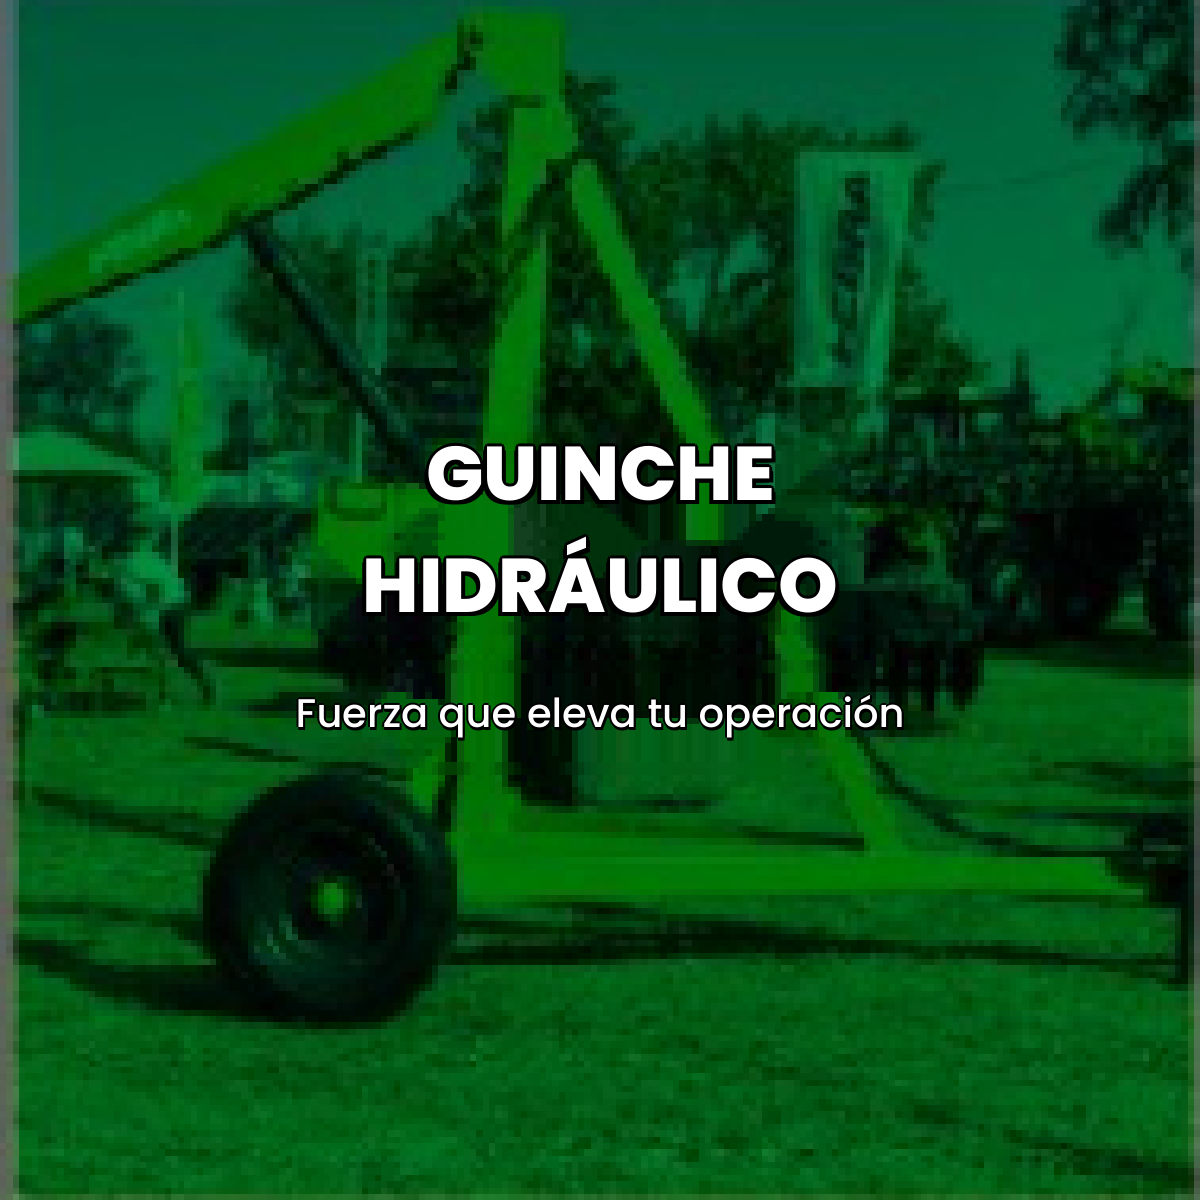
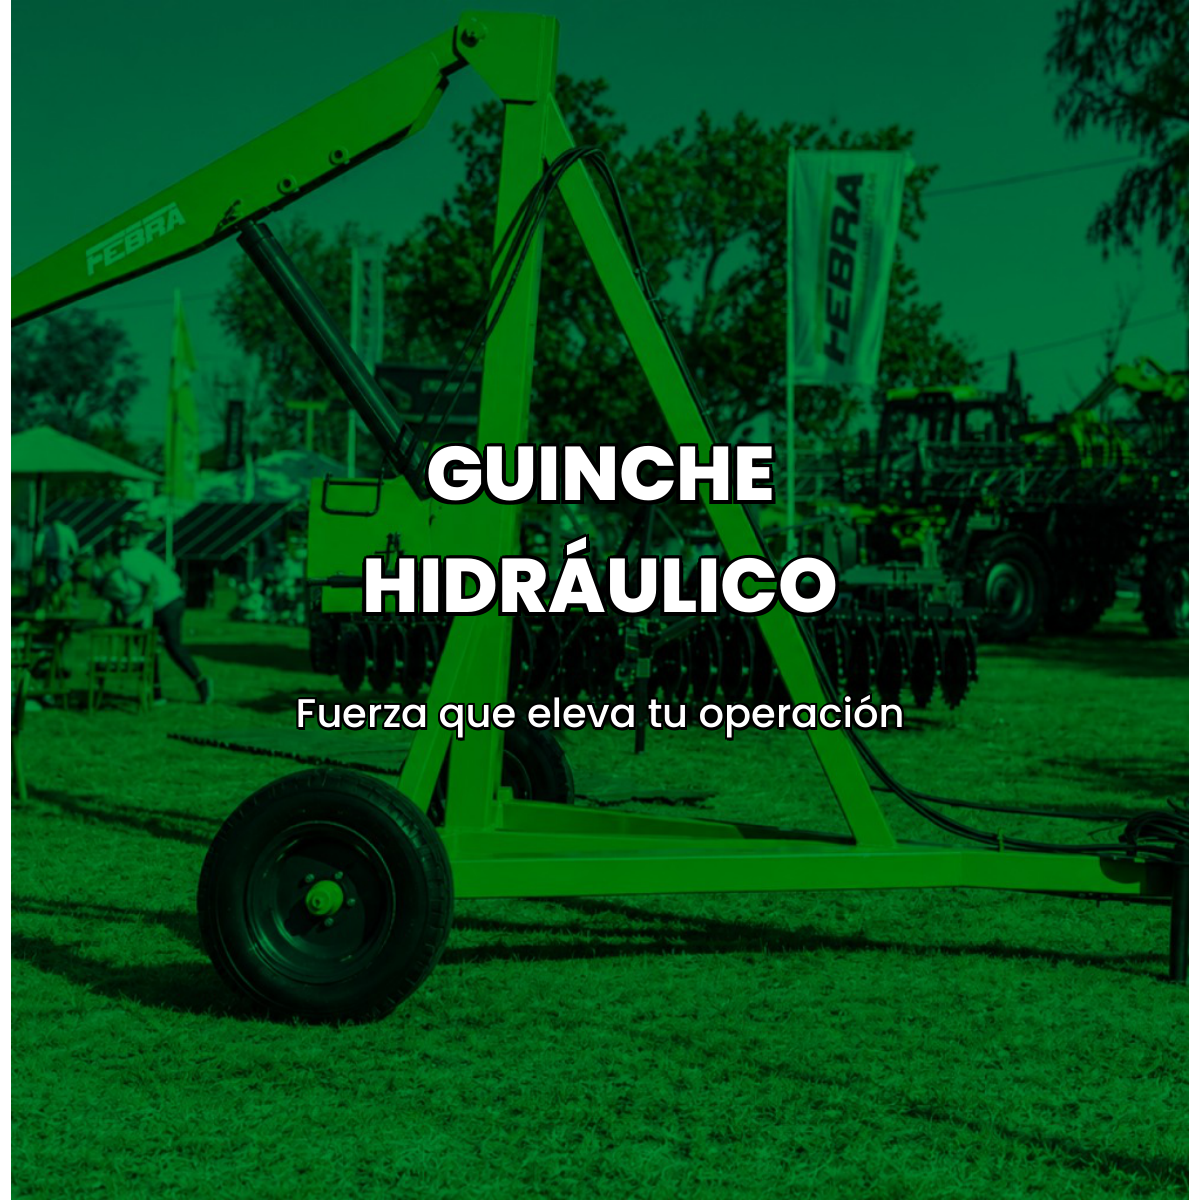
Actualizar fotos de implementos en alta definicion manteniendo textos

diff --git a/index.html b/index.html
@@ -1146,27 +1146,27 @@
         <div class="cards-grid" id="cardsGrid">
           <!-- Tarjeta 1: Rastra Acondicionadora -->
           <div class="product-card" onclick="openProductModal('Rastra Acondicionadora')">
-            <img src="assets/card_rastra_full.png?v=3" alt="RASTRA ACONDICIONADORA - Nivelación y terminación con precisión" class="card-bg" />
+            <img src="assets/card_rastra_full.png?v=4" alt="RASTRA ACONDICIONADORA - Nivelación y terminación con precisión" class="card-bg" />
           </div>
 
           <!-- Tarjeta 2: Subsolador Descompactador -->
           <div class="product-card" onclick="openProductModal('Subsolador Descompactador')">
-            <img src="assets/card_subsolador_full.png?v=3" alt="SUBSOLADOR DESCOMPACTADOR - Profundidad que transforma el suelo" class="card-bg" />
+            <img src="assets/card_subsolador_full.png?v=4" alt="SUBSOLADOR DESCOMPACTADOR - Profundidad que transforma el suelo" class="card-bg" />
           </div>
 
           <!-- Tarjeta 3: Carpidor -->
           <div class="product-card" onclick="openProductModal('Carpidor')">
-            <img src="assets/card_carpidor_full.png?v=3" alt="CARPIDOR - Precisión que protege el suelo" class="card-bg" />
+            <img src="assets/card_carpidor_full.png?v=4" alt="CARPIDOR - Precisión que protege el suelo" class="card-bg" />
           </div>
 
           <!-- Tarjeta 4: Rolo Hidráulico -->
           <div class="product-card" onclick="openProductModal('Rolo Hidráulico')">
-            <img src="assets/card_rolo_full.png?v=3" alt="ROLO HIDRÁULICO" class="card-bg" />
+            <img src="assets/card_rolo_full.png?v=4" alt="ROLO HIDRÁULICO" class="card-bg" />
           </div>
 
           <!-- Tarjeta 5: Guinche Hidráulico -->
           <div class="product-card" onclick="openProductModal('Guinche Hidráulico')">
-            <img src="assets/card_guinche_full.png?v=3" alt="GUINCHE HIDRÁULICO - Fuerza que eleva tu operación" class="card-bg" />
+            <img src="assets/card_guinche_full.png?v=4" alt="GUINCHE HIDRÁULICO - Fuerza que eleva tu operación" class="card-bg" />
           </div>
         </div>
 
